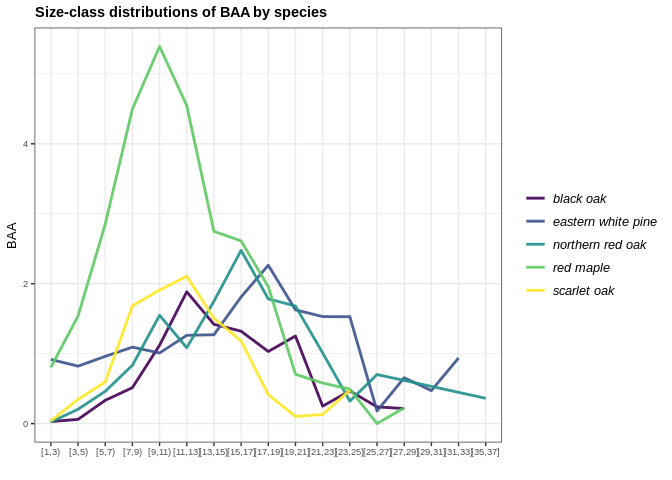
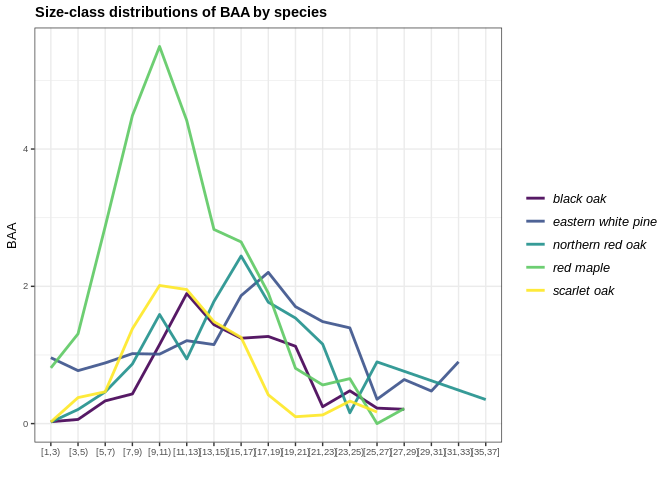
README updates.

diff --git a/README.md b/README.md
@@ -119,7 +119,7 @@ Now that you have loaded your FIA data into R, it’s time to put it to
 work. Let’s explore the basic functionality of `rFIA` with `tpa`, a
 function to compute tree abundance estimates (TPA, BAA, & relative
 abundance) from FIA data, and `fiaRI`, a subset of the FIA Database for
-Rhode Island including all inventories up to 2017.
+Rhode Island including inventories from 2013-2018.
 
 **Estimate the abundance of live trees in Rhode Island:**
 
@@ -134,24 +134,12 @@ fiaRI_MR <- clipFIA(fiaRI, mostRecent = TRUE) ## subset the most recent data
 tpaRI_MR <- tpa(fiaRI_MR)
 head(tpaRI_MR)
 #>   YEAR      TPA      BAA TPA_PERC BAA_PERC   TPA_SE   BAA_SE TPA_PERC_SE
-#> 1 2017 441.1381 123.2122 95.38343  94.6289 6.658465 3.012546     7.65795
+#> 1 2018 426.7119 122.1143 93.22791   93.677 6.631549 3.057083     7.61641
 #>   BAA_PERC_SE nPlots_TREE nPlots_AREA
-#> 1    4.486253         124         125
+#> 1    4.477168         126         127
 
 ## All Inventory Years Available (i.e., returns a time series)
 tpaRI <- tpa(fiaRI)
-## 2005 marks the first reporting year of the annual inventory, prior data is sparse
-tail(tpaRI[tpaRI$YEAR >= 2005,], n = 4) 
-#>    YEAR      TPA      BAA TPA_PERC BAA_PERC   TPA_SE   BAA_SE TPA_PERC_SE
-#> 12 2014 466.0828 119.8941 96.81215 95.01087 6.726866 3.093355    7.624014
-#> 13 2015 444.4095 120.5557 96.56753 94.95990 6.397598 3.056033    7.370677
-#> 14 2016 449.7928 122.8870 95.81793 95.01799 6.458278 2.940997    7.454994
-#> 15 2017 441.1381 123.2122 95.38343 94.62890 6.658465 3.012546    7.657950
-#>    BAA_PERC_SE nPlots_TREE nPlots_AREA
-#> 12    4.597449         121         123
-#> 13    4.479756         122         124
-#> 14    4.486982         124         125
-#> 15    4.486253         124         125
 
 ## Time Series plot
 plotFIA(tpaRI, BAA, plot.title = 'Basal area per acre in Rhode Island over time')
@@ -167,30 +155,30 @@ class?**
 tpaRI_species <- tpa(fiaRI_MR, bySpecies = TRUE)
 head(tpaRI_species, n = 3)
 #>   YEAR SPCD          COMMON_NAME        SCIENTIFIC_NAME        TPA
-#> 1 2017   12           balsam fir         Abies balsamea 0.08543602
-#> 2 2017   43 Atlantic white-cedar Chamaecyparis thyoides 0.25204548
-#> 3 2017   68     eastern redcedar   Juniperus virginiana 1.14522403
+#> 1 2018   12           balsam fir         Abies balsamea 0.08732464
+#> 2 2018   43 Atlantic white-cedar Chamaecyparis thyoides 0.24652918
+#> 3 2018   68     eastern redcedar   Juniperus virginiana 1.13812339
 #>          BAA   TPA_PERC   BAA_PERC    TPA_SE    BAA_SE TPA_PERC_SE
-#> 1 0.02882013 0.01847308 0.02213431 116.12825 116.12825    7.745135
-#> 2 0.18331354 0.05449759 0.14078767  58.76023  55.63951    7.680104
-#> 3 0.13385013 0.24762176 0.10279899  64.41035  65.79782    7.684579
+#> 1 0.02945721 0.01907867 0.02259738 114.02897 114.02897    7.700936
+#> 2 0.17960008 0.05386163 0.13777578  59.08447  55.97810    7.638942
+#> 3 0.13844250 0.24865690 0.10620276  64.77184  67.45948    7.643501
 #>   BAA_PERC_SE nPlots_TREE nPlots_AREA
-#> 1    4.634001           1         125
-#> 2    4.520513           3         125
-#> 3    4.534002           5         125
+#> 1    4.619978           1         127
+#> 2    4.511914           3         127
+#> 3    4.527460           5         127
 
 ## Group estimates by size class
 ## NOTE: Default 2-inch size classes, but you can make your own using makeClasses()
 tpaRI_sizeClass <- tpa(fiaRI_MR, bySizeClass = TRUE)
 head(tpaRI_sizeClass, n = 3)
-#>   YEAR sizeClass       TPA      BAA  TPA_PERC BAA_PERC    TPA_SE    BAA_SE
-#> 1 2017     [1,3) 205.23681 3.669717 44.579534 2.986311  9.374920  8.810176
-#> 2 2017     [3,5)  69.80959 5.821516 15.163356 4.737384 12.440803 13.026966
-#> 3 2017     [5,7)  45.22111 8.753295  9.822488 7.123183  5.241419  5.313978
+#>   YEAR sizeClass       TPA      BAA TPA_PERC BAA_PERC    TPA_SE    BAA_SE
+#> 1 2018     [1,3) 200.04626 3.703843 43.68492 3.004808  9.350683  9.599735
+#> 2 2018     [3,5)  67.04905 5.636636 14.64177 4.572821 12.110857 12.699784
+#> 3 2018     [5,7)  44.10363 8.579190  9.63109 6.960020  5.338930  5.392966
 #>   TPA_PERC_SE BAA_PERC_SE nPlots_TREE nPlots_AREA
-#> 1    4.557014    2.051695          75         124
-#> 2    4.557813    2.053974          44         124
-#> 3    4.556390    2.050508         113         124
+#> 1    4.464367    1.978547          76         126
+#> 2    4.465090    1.980327          46         126
+#> 3    4.463748    1.976972         115         126
 
 ## Group by species and size class, and plot the distribution 
 ##  for the most recent inventory year
@@ -220,14 +208,14 @@ tpaRI_own <- tpa(fiaRI_MR,
                      treeDomain = DIA > 12 & CCLCD %in% c(1,2),
                      areaDomain = PHYSCLCD %in% c(20:29))
 head(tpaRI_own)
-#>   YEAR OWNGRPCD      TPA      BAA TPA_PERC BAA_PERC   TPA_SE   BAA_SE
-#> 1 2017       30 1.238332 4.783645      100      100 49.84574 49.34242
-#> 2 2017       40 1.435430 3.737055      100      100 24.80016 26.94152
-#> 3 2017       NA 1.372623 4.070559      100      100 22.68298 24.92343
+#>   YEAR OWNGRPCD       TPA      BAA TPA_PERC BAA_PERC   TPA_SE   BAA_SE
+#> 1 2018       30 0.8482522 3.567751      100      100 58.95933 59.06494
+#> 2 2018       40 1.4920940 3.992055      100      100 25.69191 27.70682
+#> 3 2018       NA 1.2884293 3.857836      100      100 23.72942 25.98661
 #>   TPA_PERC_SE BAA_PERC_SE nPlots_TREE nPlots_AREA
-#> 1    51.46922    50.95504           4          38
-#> 2    26.04668    27.89684          12          80
-#> 3    23.14604    25.23145          16         116
+#> 1    60.69603    60.74652           3          38
+#> 2    26.85686    28.61007          12          82
+#> 3    24.15310    26.25434          15         118
 ```
 
 **What if I want to produce estimates within my own population
